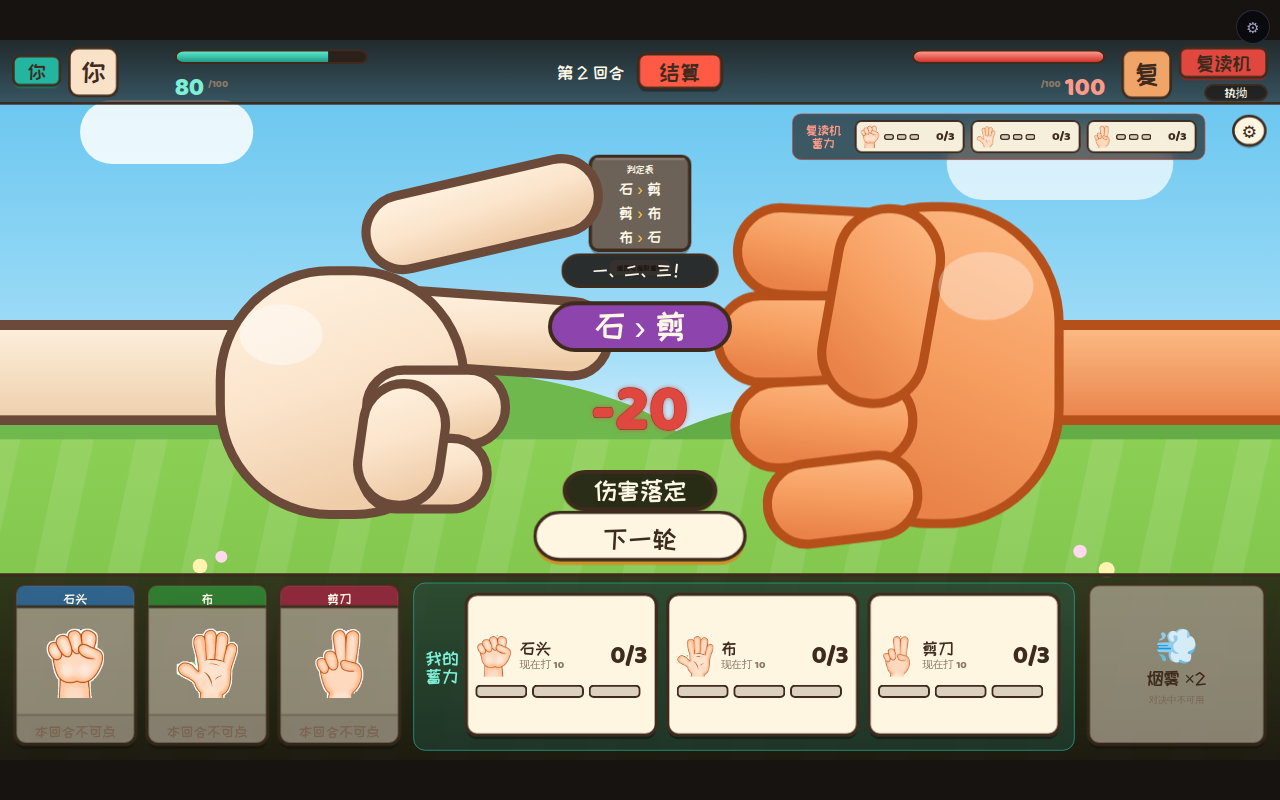
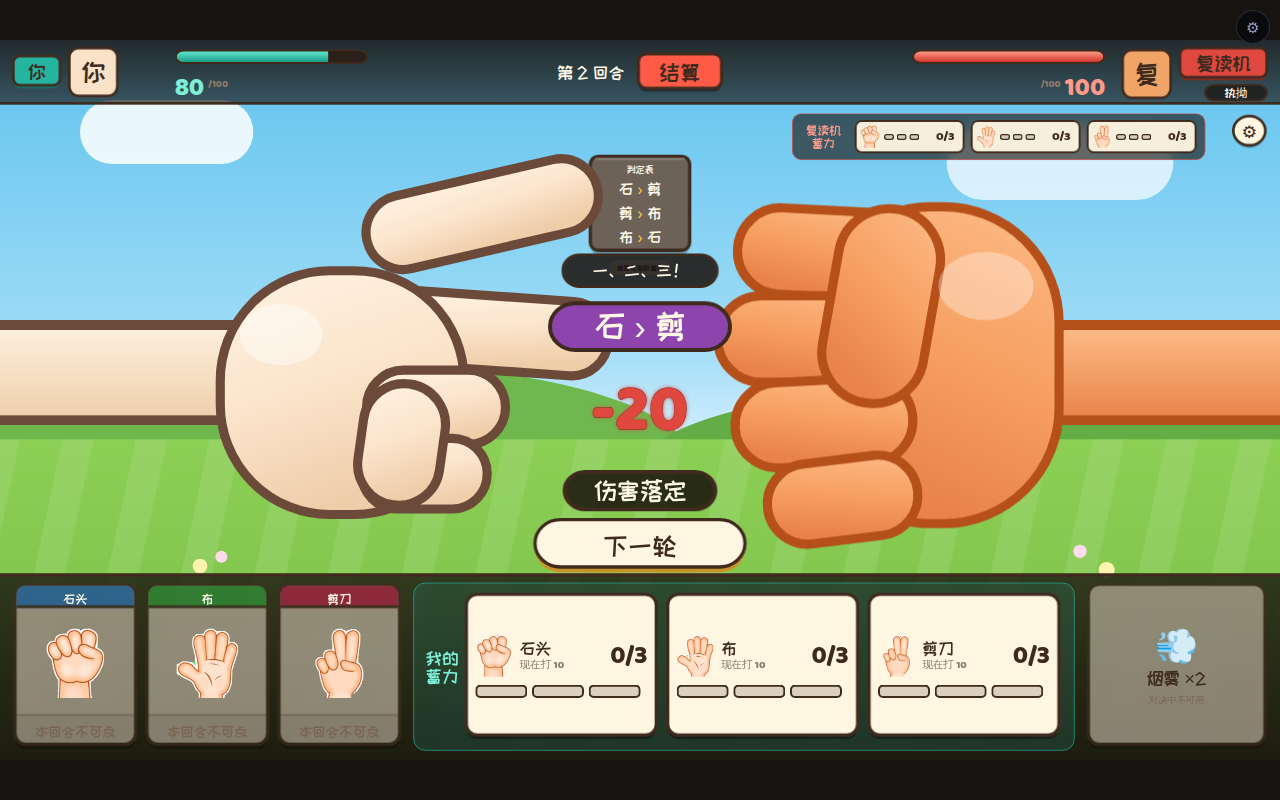
feat(game108): 玩法说明 + 烟雾演出；AI v4 案落策划待裁；修「下一轮」第二次被横幅压住
owner 2026-08-08 三条新要求，分两半处理：**能直接做的做完，改玩法的先落策划案。**

已做
- **玩法说明**（「我们这游戏少了个说明文档」）：设置菜单第五行进，写「四拍各干什么 + 三条规则」。
  受 §0 验收铁律约束——**说明本身也不许要求玩家记东西或心算**，故不列公式不讲概率，
  点名测试断言正文里不出现 `%`/`×`/`=`/分数。
- **烟雾演出**（「烟雾完全没有效果，要有一个效果…从烟雾地方飞上去有个粒子…遮住他的眼睛」）：
  粒子雾从烟雾键升起 + 我方三槽罩雾 + 对手画像旁一枚「他看不见了」。
  ⚠ **只做了"看得见"这一半，没假装"已生效"**——规则那一半要等下面的裁决。

已诊断（owner 报的两条其实是同一件事的两半）
- `p1.hidden` 这面旗**只有人置位与清除、零消费者**；AI 从头到尾只读 `lastThrow`、
  **根本不读玩家的蓄力** ⇒ 没有任何东西可遮。烟雾空转的根因是 AI 还不会读牌，不是特效缺失。

落策划案待 owner 裁（gdd §9 重写为 v4）
- 两个维度（习惯记忆 + 当局读牌与二次思考）、决策链五条、【R-108-33】不许赖皮（硬红线 + 必须有
  点名测试钉死「AI 先定手，玩家再出，AI 的手不变」）、烟雾屏蔽哪两条、可行性实查（**零引擎单**）。
- **§9.0 摆了一条我反对的意见请 owner 判 A/B/C**：「比人类强」与支柱一「读的是宣告」直接冲突
  （红线原文：读不出来的 AI = 随机数发生器）。推荐 A = v4 智能**只挂第五档 Boss**，
  前四档保留可读破绽——既给了那个"记忆更长所以更强"的对手，又不让新手第一场就读不出来。

修 bug（真渲染逮到·同一形状同日第二次）
- 「下一轮」摆定稿的 y706 后，**掉 40 血时结果横幅长到 ~750 把它压住** ⇒ 探针点在横幅上、
  世界零反应零报错、试玩卡死在 T4。掉 20 时不复现——**横幅是自适应高度的列**。
  真正的解不是挪位置，是**挂进那一列当子节点**（定稿 T4 稿图本来就是这个构图），由布局保证不重叠。
  教训回填 `docs/playbooks/testing.md`：「按当前数据量了一下不重叠」不是结论，数据会变。

验证：单测 45 绿 · 真浏览器试玩 32 绿 · scoped-gate 退出码 0 · 流程板 S3/S4/S5 机器门同时绿。

https://claude.ai/code/session_01CxgHiwPr3Q9y3548zpXfcV

Changed region(s): [[0.4062, 0.625, 0.5938, 0.7188]]

diff --git a/games/game108/duel-screen.ts b/games/game108/duel-screen.ts
@@ -25,7 +25,7 @@ import { C, S, F, L, R, B, SH, CANVAS, dmgFontSize } from './design-tokens.js';
 import { plate, ring, hpBar, scene } from './plate-art.js';
 import { handArt, armArt, HAND_BOX_SCALE, HAND_BOX_SHIFT } from './hand-art.js';
 import { HAND_ICON_SRC } from './hand-icons.js';
-import { t, CHAR_W, enSize, type Lang } from './strings.js';
+import { t, CHAR_W, enSize, type Lang, type StringKey as StringKeyOf } from './strings.js';
 import { DEFAULT_CARD } from './card-character.js';
 
 /** 这只手现在打多少【R-108-13】。 */
@@ -110,6 +110,8 @@ export interface DuelView {
   lang: Lang;
   /** 设置菜单开着没有（owner 2026-08-07：右上角一个菜单键·里面放音乐和语言）。 */
   menuOpen?: boolean;
+  /** 玩法说明开着没有（owner 2026-08-08：「少了个说明文档，需要在这个菜单里加一下」）。 */
+  helpOpen?: boolean;
   /** 三个音频开关的当前状态（纯显示·真状态在宿主的音频门面里）。 */
   audio?: { bgm: boolean; sfx: boolean; voice: boolean };
   /** 角色这一刻说的那句（配音发不出声时的**字幕兜底**——听不见也要看得见）。 */
@@ -1051,7 +1053,6 @@ function bottomBar(view: DuelView): LayoutNode[] {
     ...HANDS.map((h, i) => cardGhost(view, h, i)).filter((n): n is LayoutNode => n !== null),
     ...HANDS.map((h, i) => moveCard(view, h, i)),
     ...chargeParticles(view),
-    ...(view.awaitNext ? [nextKey(view)] : []),
     smokeKey(view),
   ];
 }
@@ -1162,8 +1163,8 @@ function nextKey(view: DuelView): LayoutNode {
       action: ACT.next,
     },
     layout: {
-      x: Math.round((CANVAS.w - w) / 2), y: 706, width: w, height: hgt,
-      direction: 'row', align: 'center', justify: 'center', padding: 0, allowOverlap: true,
+      width: w, height: hgt,
+      direction: 'row', align: 'center', justify: 'center', padding: 0,
       anim: 'pop', animMs: 260,
     },
     children: [{ type: 'Label', id: 'key-nextround-t', props: { text: t(view.lang, 'end.nextRound'), size: 40, font: F.cjk, color: 'ink' } }],
@@ -1204,6 +1205,100 @@ function startScreen(view: DuelView): LayoutNode[] {
           children: [{ type: 'Label', id: 'key-start-t', props: { text: t(view.lang, 'start.go'), size: 52, font: F.cjk, color: 'ok' } }],
         },
         { type: 'Label', id: 'start-tip', props: { text: t(view.lang, 'start.tip'), size: 22, font: F.cjk, color: 'sub' } },
+      ],
+    },
+  ];
+}
+
+/**
+ * 【R-108-21/22】烟雾**演出**（owner 2026-08-08：「烟雾完全没有效果啊，要有一个效果…
+ * 从这个烟雾地方飞上去，有个粒子的烟雾特效之类的…比如说遮住他的眼睛」）。
+ *
+ * 三样：① 从烟雾键升起的粒子雾（`Particles` 是基座件——`kind:'sparkle'`，
+ * 定色/定向/拖尾归 `REQ-UIFX` 那张单，到货后换）② 我方三槽罩一层雾
+ * ③ 对手画像上一枚「看不见」的标 —— 这一枚才是**信息**：告诉玩家「这两回合他真的读不到你」。
+ *
+ * ⚠ 规则那一半（AI 真的读不到）**不在这里**，在 `blueprint.ts` 的决策表里，
+ * 且要等 gdd §9.0 的 A/B/C 裁完才动——现在 AI 压根不读蓄力，所以烟雾在规则上还是空转的。
+ * **这一屏只做"看得见"，不假装"已经生效"**（假装 = 比没做还糟）。
+ */
+function smokeFx(view: DuelView): LayoutNode[] {
+  if (!view.smoke.hidden) return [];
+  const out: LayoutNode[] = [];
+  // ① 粒子雾：从烟雾键正上方升起（键在底栏最右，见 smokeKey 的落点）。
+  const sx = CANVAS.w - L.bottom.pad[1] - L.smoke.w;
+  out.push({
+    type: 'Particles', id: 'smoke-fx',
+    props: { kind: 'sparkle', count: 22, loop: true },
+    layout: { x: sx, y: L.bottom.y - 300, width: L.smoke.w, height: 320, allowOverlap: true },
+  } as LayoutNode);
+  // ② 我方三槽罩雾（雾是"对手看不见"的可视化——我自己仍然读得到底下的数字，故用半透）。
+  out.push({
+    type: 'Image', id: 'smoke-veil',
+    props: { src: plate({ w: 992, h: BOTTOM_INNER_H, fill: ['rgba(226,232,240,.34)', 'rgba(203,213,225,.20)'], radius: R.mySlotBox }), alt: '', fit: 'fill' },
+    layout: { x: 620, y: BOTTOM_INNER_Y, width: 992, height: BOTTOM_INNER_H, allowOverlap: true },
+  });
+  // ③ 对手画像上的「看不见」标 —— 玩家要的确认在这儿。
+  const w = 132;
+  out.push({
+    type: 'Panel', id: 'smoke-blind',
+    props: { skin: plate({ w, h: 32, fill: 'rgba(24,17,12,.82)', border: 3, radius: R.pill }) },
+    layout: {
+      x: CANVAS.w - 18 - w, y: 92, width: w, height: 32,
+      direction: 'row', align: 'center', justify: 'center', padding: 0, allowOverlap: true,
+    },
+    children: [{ type: 'Label', id: 'smoke-blind-t', props: { text: t(view.lang, 'smoke.blind'), size: 19, font: F.cjk, color: 'text' } }],
+  });
+  return out;
+}
+
+/**
+ * 玩法说明（owner 2026-08-08 要·从设置菜单里进）。
+ * 写法受 §0 验收铁律约束：本作**零记忆零算术**——**说明本身也不许要求玩家记东西或心算**，
+ * 所以只写「四拍各干什么 + 三条规则 + 一句为什么」，不列公式、不讲概率。
+ */
+function helpScreen(view: DuelView): LayoutNode[] {
+  const lang = view.lang;
+  const w = 1060, hgt = 760;
+  const x = Math.round((CANVAS.w - w) / 2), y = Math.round((CANVAS.h - hgt) / 2);
+  const head = (id: string, key: StringKeyOf): LayoutNode => ({
+    type: 'Label', id: `help-${id}`, props: { text: t(lang, key), size: 30, font: F.cjk, color: 'ok' },
+  });
+  const line = (id: string, key: StringKeyOf): LayoutNode => ({
+    type: 'Label', id: `help-${id}`, props: { text: t(lang, key), size: enSize(lang, 26), font: F.cjk, color: 'ink' },
+  });
+  return [
+    {
+      type: 'Image', id: 'help-veil',
+      props: { src: plate({ w: CANVAS.w, h: CANVAS.h, fill: 'rgba(16,11,8,.72)', radius: 0 }), alt: '', fit: 'fill' },
+      layout: { x: 0, y: 0, width: CANVAS.w, height: CANVAS.h, allowOverlap: true },
+    },
+    {
+      type: 'Panel', id: 'help',
+      props: { skin: plate({ w, h: hgt, fill: [C.cream, '#f4e2c4'], border: B.end, radius: R.end, shadow: SH.end, shadowColor: 'rgba(0,0,0,.35)' }) },
+      layout: {
+        x, y, width: w, height: hgt, direction: 'column', align: 'start', justify: 'center', gap: 10, padding: 48,
+        anim: 'pop', animMs: 280, allowOverlap: true,
+      },
+      children: [
+        { type: 'Label', id: 'help-t', props: { text: t(lang, 'help.title'), size: 48, font: F.cjk, color: 'ink' }, layout: { height: 60 } },
+        {
+          type: 'Image', id: 'help-div',
+          props: { src: plate({ w: w - 96, h: 4, fill: 'rgba(63,43,30,.22)', radius: 2 }), alt: '', fit: 'fill' },
+          layout: { width: w - 96, height: 4 },
+        },
+        head('h1', 'help.beats'),
+        line('t1', 'help.t1'), line('t2', 'help.t2'), line('t3', 'help.t3'), line('t4', 'help.t4'),
+        head('h2', 'help.rules'),
+        line('r1', 'help.r1'), line('r2', 'help.r2'), line('r3', 'help.r3'),
+        line('pen', 'help.penalty'),
+        { type: 'Label', id: 'help-tell', props: { text: t(lang, 'help.tell'), size: enSize(lang, 24), font: F.cjk, color: 'dim' } },
+        {
+          type: 'Panel', id: 'key-help-close',
+          props: { skin: plate({ w: 260, h: 66, fill: C.cream, border: B.card, radius: R.pill, shadow: SH.card }), action: UI_ACT.help },
+          layout: { width: 260, height: 66, direction: 'row', align: 'center', justify: 'center', padding: 0 },
+          children: [{ type: 'Label', id: 'key-help-close-t', props: { text: t(lang, 'menu.close'), size: 28, font: F.cjk, color: 'ink' } }],
+        },
       ],
     },
   ];
@@ -1264,6 +1359,8 @@ function settingsMenu(view: DuelView): LayoutNode[] {
         row('sfx', t(view.lang, 'menu.sfx'), a.sfx ? on : off, UI_ACT.sfx, a.sfx, 1),
         row('voice', t(view.lang, 'menu.voice'), a.voice ? on : off, UI_ACT.voice, a.voice, 2),
         row('lang', t(view.lang, 'menu.lang'), t(view.lang, view.lang === 'zh' ? 'menu.langZh' : 'menu.langEn'), UI_ACT.lang, true, 3),
+        // owner 2026-08-08：说明文档从这里进（菜单里第五行·不是第二颗主键，样式同前四行）。
+        row('help', t(view.lang, 'help.open'), '?', UI_ACT.help, true, 4),
         {
           type: 'Panel', id: 'key-menu-close',
           props: { skin: plate({ w: 220, h: 60, fill: C.cream, border: B.card, radius: R.card, shadow: SH.card }), action: UI_ACT.menu },
@@ -1354,6 +1451,12 @@ function endPanel(view: DuelView): LayoutNode[] {
 export function buildDuelScreen(view: DuelView): LayoutNode {
   const over = isOver(view.phase);
   const b = banner(view);
+  // 【R-108-05】「下一轮」**挂进结果横幅那一列的末尾**（定稿 T4 稿图里它就在「伤害落定」正下方）。
+  // 为什么不摆成独立绝对定位节点：横幅是**自适应高度的列**，伤害数字一大它就往下长——
+  // 摆 y706 那一版真渲染实测过：掉 20 没事，掉 40 时横幅长到 ~750，把键压住 ⇒
+  // 探针点在横幅上、**世界零反应且零报错**，试玩当场卡在结算（2026-08-08 第二次撞同一形状）。
+  // 挂进同一列 = 由布局保证不重叠，横幅多高都跟着走。
+  if (b && view.awaitNext) b.children = [...(b.children ?? []), nextKey(view)];
   const sub = subtitle(view);
   const veil = hitVeil(view);   // 罚血**不**用红纱了：定稿要它与挨打分得开，改走欠账牌 + 血条渗滴
   // 【R-108-06】红色**震动**：整块舞台连人带 UI 一起抖（幅度随掉血量·见 shakeAmp）。
@@ -1372,6 +1475,8 @@ export function buildDuelScreen(view: DuelView): LayoutNode {
       handNode(view, 'p1'), handNode(view, 'p2'),
       ...(b ? [b] : []),
       ...(over ? endPanel(view) : bottomBar(view)),
+      // 没有横幅的结算（理论上罕见：平局且没亮手）也得留出口——否则玩家卡死在 T4。
+      ...(view.awaitNext && !b ? [nextKey(view)] : []),
       // T1 放大态：判定表**改画在卡片之上**（定稿 T1b 稿图里它就压在中间那张牌上）——
       // 六条槽与判定表是这一拍唯一要读的两样东西，被自己的牌盖住就等于关掉了。
       ...(view.phase === 'charge' ? [ruleSlab(view.lang)] : []),
@@ -1380,7 +1485,9 @@ export function buildDuelScreen(view: DuelView): LayoutNode {
       ...penaltyPanel(view), ...penaltyDrips(view),
       // 红纱压在对局层之上、菜单之下：它是打击感，不该盖住玩家正在操作的设置面板。
       ...(veil ? [veil] : []),
+      ...smokeFx(view),
       ...(view.menuOpen ? settingsMenu(view) : []),
+      ...(view.helpOpen ? helpScreen(view) : []),
       // 开始屏盖在最上面（含菜单）——还没开局时屏上只该有一个出口。
       ...(view.notStarted ? startScreen(view) : []),
     ],

diff --git a/games/game108/strings.ts b/games/game108/strings.ts
@@ -59,6 +59,8 @@ export const STRINGS = {
   'smoke.avail': { en: 'Hide my slots · 2 rounds', zh: '遮蔽我方三槽 2 回合' },
   'smoke.active': { en: 'Active · hidden from them', zh: '生效中 · 对手看不见' },
   'smoke.off': { en: 'Locked in clash', zh: '对决中不可用' },
+  // 【R-108-21】烟雾期间挂在对手画像旁的标——**这一枚才是信息**：告诉玩家「他这两回合读不到你」。
+  'smoke.blind': { en: 'HE IS BLIND', zh: '他看不见了' },
 
   // ── 结果横幅 ────────────────────────────────────────────────────────
   'result.win': { en: 'You win the round', zh: '你赢了这回合' },
@@ -104,6 +106,23 @@ export const STRINGS = {
   'menu.close': { en: 'Close', zh: '关闭' },
   'menu.langZh': { en: '中文', zh: '中文' },
   'menu.langEn': { en: 'English', zh: 'English' },
+
+  // ── 玩法说明（owner 2026-08-08 要·菜单里一项）────────────────────────
+  // 口径照 §0 验收铁律：**零记忆零算术**——说明本身也不许要求玩家记东西或心算，
+  // 所以写成「四拍各干什么 + 三条规则」，不写公式、不列概率。
+  'help.title': { en: 'HOW TO PLAY', zh: '玩法说明' },
+  'help.open': { en: 'How to play', zh: '玩法说明' },
+  'help.beats': { en: 'EACH ROUND', zh: '一个回合' },
+  'help.t1': { en: 'CHARGE · pick one hand, +1 layer (once per round)', zh: '蓄力 · 挑一只手 +1 层（一回合只能加一层）' },
+  'help.t2': { en: 'STRIKE · throw any hand — not necessarily the one you charged', zh: '出招 · 出任意一手，不必是刚蓄的那只' },
+  'help.t3': { en: 'DUEL · both hands revealed at once', zh: '对决 · 双方同时亮拳' },
+  'help.t4': { en: 'RESOLVE · press NEXT ROUND when you are ready', zh: '结算 · 看够了再点「下一轮」' },
+  'help.rules': { en: 'THREE RULES', zh: '三条规则' },
+  'help.r1': { en: 'Rock beats Scissors beats Paper beats Rock', zh: '石 > 剪 > 布 > 石' },
+  'help.r2': { en: 'Charge does not decide who wins — only how hard the win lands', zh: '蓄力不决定谁赢，只决定赢了打多重' },
+  'help.r3': { en: 'The hand you throw resets to zero — win, lose or tie', zh: '出过的手清零——赢、输、平都一样' },
+  'help.tell': { en: 'Both charge racks are public. That is the whole game: read where his power goes, and lie about yours.', zh: '六条槽全公开。这就是整个游戏：读他的力往哪去，再对自己的力说谎。' },
+  'help.penalty': { en: 'Stalling past the free time costs 1 HP per second — it stops the moment you strike.', zh: '出招拖过免费时间，每秒扣 1 点血——出手就停。' },
 
   // ── 心情（卡片角色的 AI 轴）──────────────────────────────────────────
   'mood.stubborn': { en: 'Stubborn', zh: '执拗' },

diff --git a/games/game108/game108.ts b/games/game108/game108.ts
@@ -55,6 +55,7 @@ export function mount(container: HTMLElement): () => void {
   let engine = boot();
   let lang: Lang = loadLang();
   let menuOpen = false;
+  let helpOpen = false;
   // owner 2026-08-08：「我还没有点开始，它就直接三个牌飞上来了」——**第一次进来必须先有开始键**。
   // 做法是**根本不启动引擎**（不是暂停）：玩家点下去看到的是完完整整的第一拍，
   // 而不是已经播过一半的 T1。顺带它还是整局第一个真实手势，BGM 从这里起（浏览器自动播放策略）。
@@ -181,6 +182,7 @@ export function mount(container: HTMLElement): () => void {
       charge,
       penalty: { active: inPenalty, debt: num('debt:p1') },
       ...(started ? {} : { notStarted: true }),
+      ...(helpOpen ? { helpOpen: true } : {}),
       ...(phase === 'settle' ? { awaitNext: true } : {}),
       ...(charged ? { charged } : {}),
       ...(before ? { before } : {}),
@@ -242,6 +244,7 @@ export function mount(container: HTMLElement): () => void {
     },
   };
   const screen = (v: DuelView): LayoutNode => resolveBindings(buildDuelScreen(v), dataSource);
+  void helpOpen;   // 由 readView 投影进视图（见上）
 
   // handlers **只挂表现层本地动作**（`ui.*`）：换语言是纯显示设置，不该进世界
   //（进了就会进 hash / 录放 / lockstep，两端语言不同就判不一致——那是灾难）。
@@ -296,7 +299,9 @@ export function mount(container: HTMLElement): () => void {
     // 每个本地动作都先「起一次 BGM」：浏览器的自动播放策略要求**真实用户手势之后**才准出声，
     // 而设置菜单这几个键正好都是真手势（`audio.start()` 幂等）。
     [ACT.next]: nextOrRestart,
-    [UI_ACT.menu]: (): void => { menuOpen = !menuOpen; audio.start(); audio.play('ui'); redraw(); },
+    [UI_ACT.menu]: (): void => { menuOpen = !menuOpen; if (!menuOpen) helpOpen = false; audio.start(); audio.play('ui'); redraw(); },
+    // 说明屏从菜单进、点关闭回菜单（菜单不关）——玩家是"来查一眼规则"，不是"要退出设置"。
+    [UI_ACT.help]: (): void => { helpOpen = !helpOpen; audio.play('ui'); redraw(); },
     [UI_ACT.lang]: (): void => { lang = lang === 'zh' ? 'en' : 'zh'; saveLang(lang); voice.setLang(lang); audio.play('ui'); redraw(); },
     [UI_ACT.bgm]: (): void => { audio.toggle('bgm'); audio.start(); audio.play('ui'); redraw(); },
     [UI_ACT.sfx]: (): void => { audio.toggle('sfx'); audio.play('ui'); redraw(); },

diff --git a/games/game108/game108.test.ts b/games/game108/game108.test.ts
@@ -307,6 +307,40 @@ describe('game108 · 对局屏（LayoutNode 纯数据）', () => {
     expect(validateLayoutNode(buildDuelScreen(v))).toEqual([]);
   });
 
+  it('玩法说明：菜单里有入口，说明屏闭集合法（owner 2026-08-08）', () => {
+    const open = screenActions({ ...emptyView(), menuOpen: true });
+    expect(open).toContain(UI_ACT.help);
+    const helpView: DuelView = { ...emptyView(), menuOpen: true, helpOpen: true };
+    expect(validateLayoutNode(buildDuelScreen(helpView))).toEqual([]);
+    // 说明本身也不许要求玩家记东西或心算（§0 验收铁律）——所以正文里不该出现公式/百分号。
+    const texts: string[] = [];
+    const walk = (n: LayoutNode): void => {
+      const tx = (n.props as { text?: string } | undefined)?.text;
+      if (typeof tx === 'string' && n.id.startsWith('help-')) texts.push(tx);
+      for (const c of n.children ?? []) walk(c);
+    };
+    walk(buildDuelScreen(helpView));
+    expect(texts.length).toBeGreaterThan(6);
+    for (const x of texts) expect(x).not.toMatch(/[%×＝=]|\d+\s*\/\s*\d+/);
+  });
+
+  it('【R-108-21】烟雾**看得见**：三样都在（粒子雾 / 罩雾 / 对手「看不见」标）', () => {
+    // owner 2026-08-08 报「烟雾完全没有效果」。这条钉的是**演出那一半**；
+    // 规则那一半（AI 真读不到）等 gdd §9.0 的 A/B/C 裁完再做，**现在不许假装已生效**。
+    const ids: string[] = [];
+    const walk = (n: LayoutNode): void => { ids.push(n.id); for (const c of n.children ?? []) walk(c); };
+    const off = { ...emptyView() };
+    walk(buildDuelScreen(off));
+    expect(ids).not.toContain('smoke-fx');
+    ids.length = 0;
+    const on: DuelView = { ...emptyView(), smoke: { uses: 1, hidden: true } };
+    walk(buildDuelScreen(on));
+    expect(ids).toContain('smoke-fx');       // 粒子雾
+    expect(ids).toContain('smoke-veil');     // 我方三槽罩雾
+    expect(ids).toContain('smoke-blind');    // 对手「看不见」标
+    expect(validateLayoutNode(buildDuelScreen(on))).toEqual([]);
+  });
+
   it('【R-108-05】T4 才画「下一轮」键，且它发的是词表里的 `duel.next`', () => {
     const settle: DuelView = { ...emptyView(), phase: 'settle', phaseLeft: 0, phaseSec: 0, awaitNext: true };
     expect(screenActions(settle)).toContain(ACT.next);

diff --git a/games/game108/theme.ts b/games/game108/theme.ts
@@ -86,6 +86,7 @@ export const UI_ACT = {
   //（同「再来一局」那条分界）。而且它还兼一件事：浏览器要求**真实用户手势之后**才准出声，
   // 这一点正好是整局的第一个手势，BGM 从这里起。
   start: 'ui.start',
+  help: 'ui.help',      // 玩法说明（owner 2026-08-08：「我们这游戏少了个说明文档，需要在这个菜单里加一下」）
 } as const;
 
 // ── 世界里的 id 约定 ───────────────────────────────────────────────────

diff --git a/docs/playbooks/testing.md b/docs/playbooks/testing.md
@@ -72,6 +72,9 @@
 > （这才是真手速），断言改成**"只推进了一格"**。② **叠层遮挡会伪装成逻辑 bug**：按钮画出来了、
 > `data-action` 也对、单测全绿，但被自适应高度的容器（横幅/字幕/自动换行说明——它们的下边界不写在
 > 代码里）压住 → 探针点在别人身上、**世界零反应且零报错**。故**新加的可点元素首跑就留一张所在屏截图**。
+> **同日又撞第二次**：同一枚键换到别处仍被同一条横幅压住——因为横幅高度**随伤害数字变化**，
+> 掉 20 时不压、掉 40 时压。⇒ **真正的解不是挪位置，是挂进那个自适应容器当子节点**，
+> 让布局去保证不重叠。「按当前数据量了一下不重叠」不是结论，**数据会变**。
 
 ## 红线（一体适用）
 
